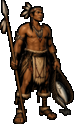
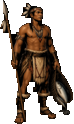
Restore the native fisherman blacks without the black backdrop halo.
Keep rembg's silhouette and only refill small keyed holes from the pre-rembg art.

diff --git a/CHANGELOG.md b/CHANGELOG.md
@@ -39,7 +39,7 @@
 
 ### User Interface ###
 * Bugfix: a mounted Indian convert is drawn as a native rider, and a mounted armed one as a native dragoon. They were using the European scout and dragoon sprites.
-* Bugfix: the native expert fisherman sprite keeps its black shading. Background removal had keyed those blacks transparent.
+* Bugfix: the native expert fisherman sprite keeps its black shading without a black backdrop halo. Background removal had keyed those blacks transparent.
 * Bugfix: the autosave at the start of a turn is written with that turn's date. It was saved a moment earlier, so loading it put units where they had finished the previous turn, with moves renewed, while the date had not changed. Accepting a tax rise and then loading that file went back to before the turn.
 * Trade route editor: clarifies that listed goods are loaded at a stop, that other goods on the carrier are unloaded, and that a stop with no goods unloads everything ("Unload all" on empty stops).
 * The colony warehouse goods bar always follows the client option "Hide goods in warehouse when fewer than", including in debug mode (debug no longer forces hiding empty goods).
